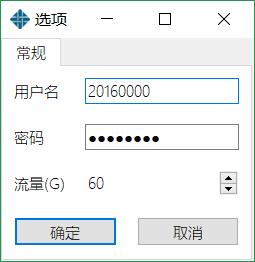
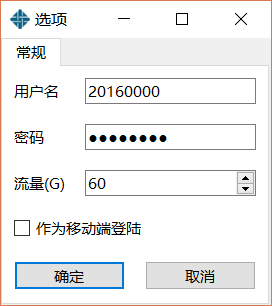
fixed mobile settings update README.md

diff --git a/maintray.cpp b/maintray.cpp
@@ -7,12 +7,13 @@ MainTray::MainTray(QObject *parent) : QSystemTrayIcon(parent),
                                       settingsMenu(new QMenu()),
                                       //初始化settings
                                       settings(QSettings::IniFormat, QSettings::UserScope, "Cai.MY", "NEU-Monitor"),
-                                      //初始化optionswindow
-                                      opWindow(settings.value("id", "").toByteArray(), QByteArray::fromBase64(settings.value("password", "").toByteArray()), settings.value("total traffic", 60).toInt(), settings.value("isMobile", false).toBool()),
-                                      logFileName("NEU_Monitor.log"),
-                                      logFile(logFileName, this),
                                       user(settings.value("id", "").toByteArray()),
-                                      passwd(QByteArray::fromBase64(settings.value("password", "").toByteArray()))
+                                      passwd(QByteArray::fromBase64(settings.value("password", "").toByteArray())),
+                                      totalTraffic(settings.value("total traffic", 0).toInt()),
+                                      isMobile(settings.value("isMobile", false).toBool()),
+                                      opWindow(user, passwd, totalTraffic, isMobile),
+                                      logFileName("NEU_Monitor.log"),
+                                      logFile(logFileName, this)
 {
     openLogFile();
 
@@ -21,10 +22,10 @@ MainTray::MainTray(QObject *parent) : QSystemTrayIcon(parent),
 
     netctrl = new NetController(user, passwd, this); //passwd为解密后密码
     connect(netctrl, &NetController::sendLog, this, &MainTray::writeLog);
-    totalTraffic = settings.value("total traffic", 60).toInt();
     netctrl->setUsername(user);
     netctrl->setPassword(passwd);
     netctrl->setTotalTraffic(totalTraffic);
+    netctrl->setMobile(isMobile);
 
     writeLog(tr("Load username[") + user + tr("] traffic[") + QString::number(totalTraffic) + tr("]."));
 

diff --git a/maintray.h b/maintray.h
@@ -35,10 +35,17 @@ private:
   QAction *mbAction, *timeAction, *balanceAction, *ipAction, *bootAction, *muteAction, *mobileAction;
   NetController *netctrl;
   QSettings settings;
+
+  QByteArray user, passwd;
+  int totalTraffic;
+  bool isMobile = false;
+
   OptionsWindow opWindow;
   QTimer *autoLoginTimer; //自动重连定时器
+
   QString logFileName;
   QFile logFile;
+
   QString olIconPath = tr(":/icons/favicon.ico");
   QString offIconPath = tr(":/icons/offline.ico");
 
@@ -55,8 +62,6 @@ private:
   void showAbout();                                               //显示关于窗口
   void setAutoStart(bool set);
 
-  QByteArray user, passwd;
-  int totalTraffic;
   int msgDur = 500;         //通知持续时间
   int checkInterval = 1000; //查询状态定时器周期
 

diff --git a/README.md b/README.md
@@ -1,30 +1,51 @@
 # NEU-Monitor
 ## 使用教程
 * 注：软件只有托盘中的图标以及单击显示的菜单，并没有主窗口
-1. 在设置中填好校园网账号，密码以及流量（剩余流量过少时发出提醒）
+1. 在设置中填好校园网账号，密码以及流量（剩余流量过少时发出提醒，0为无限制）
 
 2. 开始使用
 
-3. 双击托盘图标可以登录
+3. 双击或鼠标中键点击托盘图标可以登录或注销
 
    ![](optionsWindow.png)
 
    ![](menu.png)
-## 自动登陆
-1. 在已经登陆的状态下检测到校园网状态变为断开，此时会进行重新登陆，重新登陆等同于在ipgw网页点击`断开连接`后再进行`连接网络`
+### 自动登陆
+1. 在已经登陆的状态下检测到校园网状态变为断开，此时会进行重新登陆，重新登陆等同于在网关页面点击`断开连接`后再进行`连接网络`
 2. 首次启动应用时进行登陆
-3. 手动断开网络的情况下不会自动重新登陆
+3. 手动点击断开网络后不会自动重新登陆
 
-## 勿扰模式
+### 断开连接
+
+* 当前在线：仅注销当前连接
+* 当前断开：断开全部连接
+
+### 作为移动端登陆
+
+开启此功能后将作为移动端登陆，由于校园网限制只能一个移动端和一个桌面端登陆，可用这一功能实现两台PC同时在线。
+
+### 勿扰模式
 
 该模式下不会发出系统通知
 
-## 网络状态检测
+### 账户信息
+
+信息只有在进行登陆时才会更新
+
+单击`IP地址`可将IP复制到剪切板
+
+### 网络状态检测
+
+*为了检测网络状态，此工具会持续向查询信息接口发送请求*
+
 网络状态分为
 * 未连接到校园网
 * 连接到校园网并已经登陆
 * 连接到校园网但未登陆
 
-*为了检测网络状态，此工具会持续发送请求，~~可能由于请求频率过高，有很大概率会出现网关登陆被限制的情况（提示请5分钟之后再尝试）~~
+**请不要短时间内频繁的进行登陆，否则会出现登陆受限的情况**
 
-*请不要短时间内频繁的进行登陆，否则会出现登陆受限的情况
+## 注意事项
+
+1. 一旦网管登陆等接口出现变动，该软件会部分或全部失效
+2. 请不要短时间内频繁的进行登陆，否则会出现登陆受限的情况
